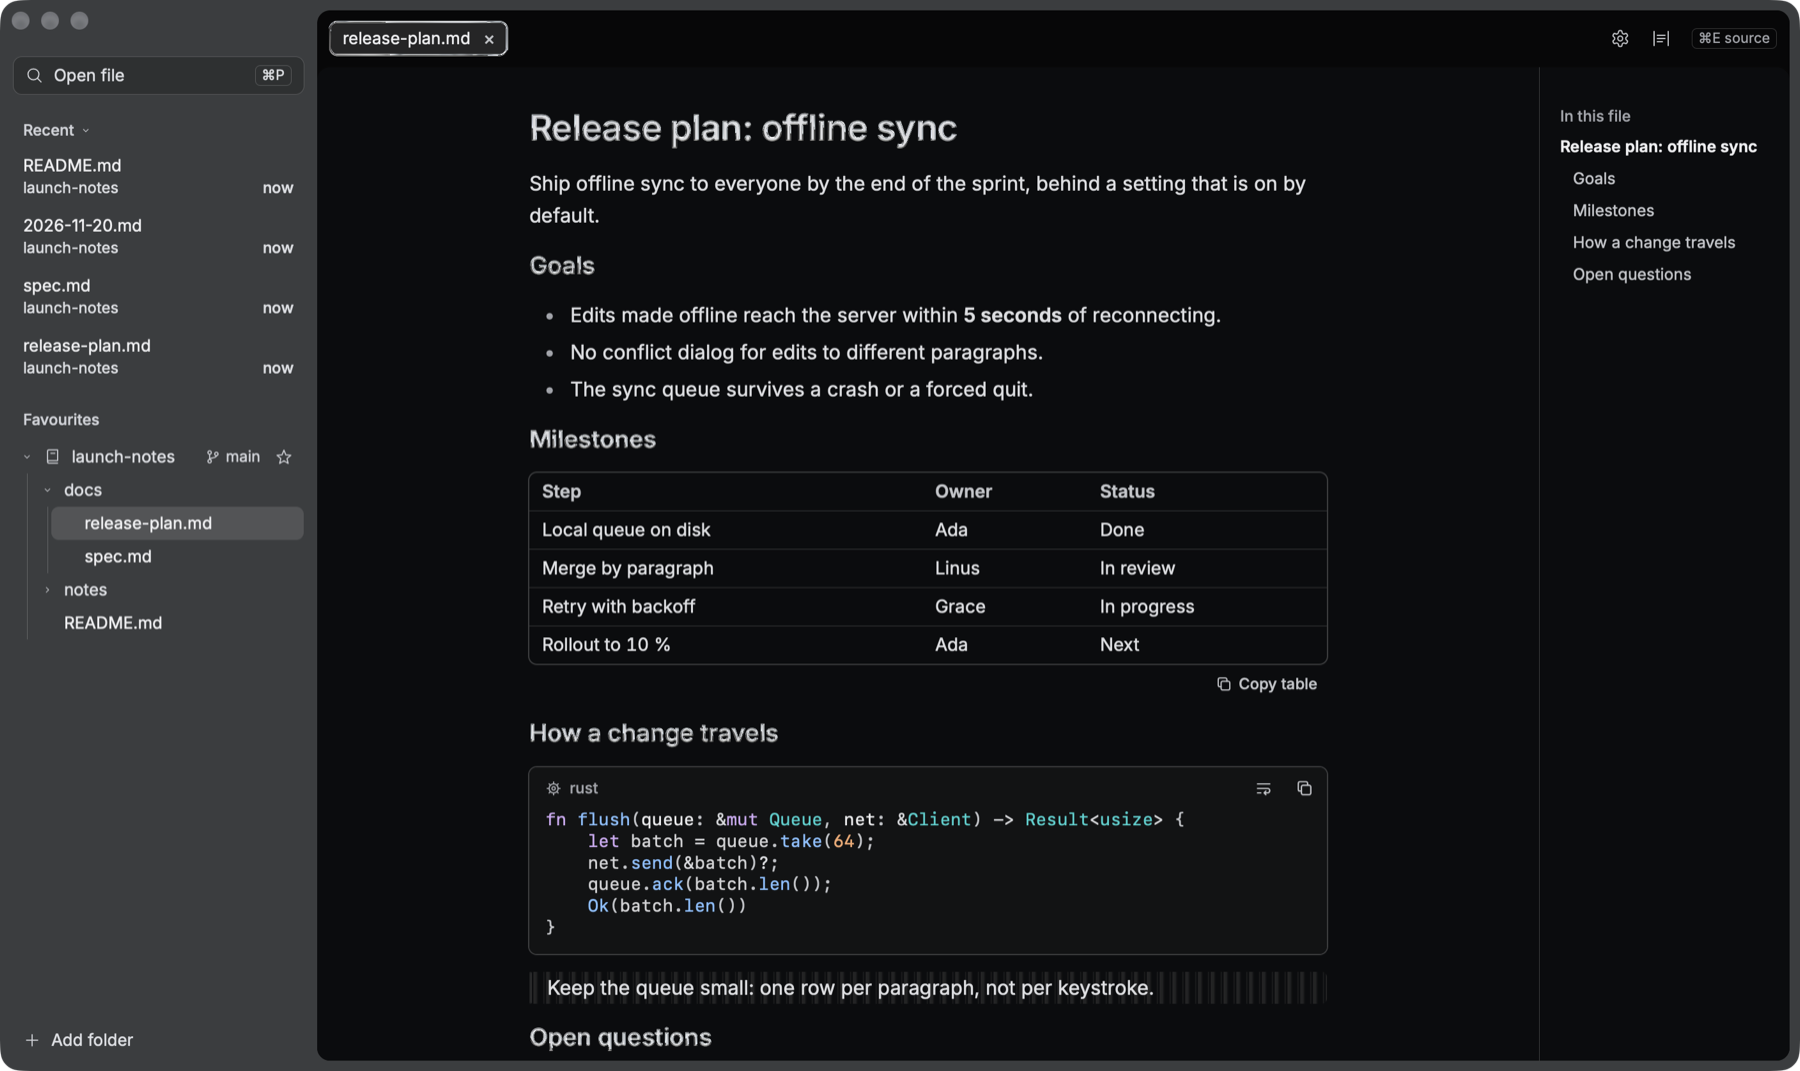
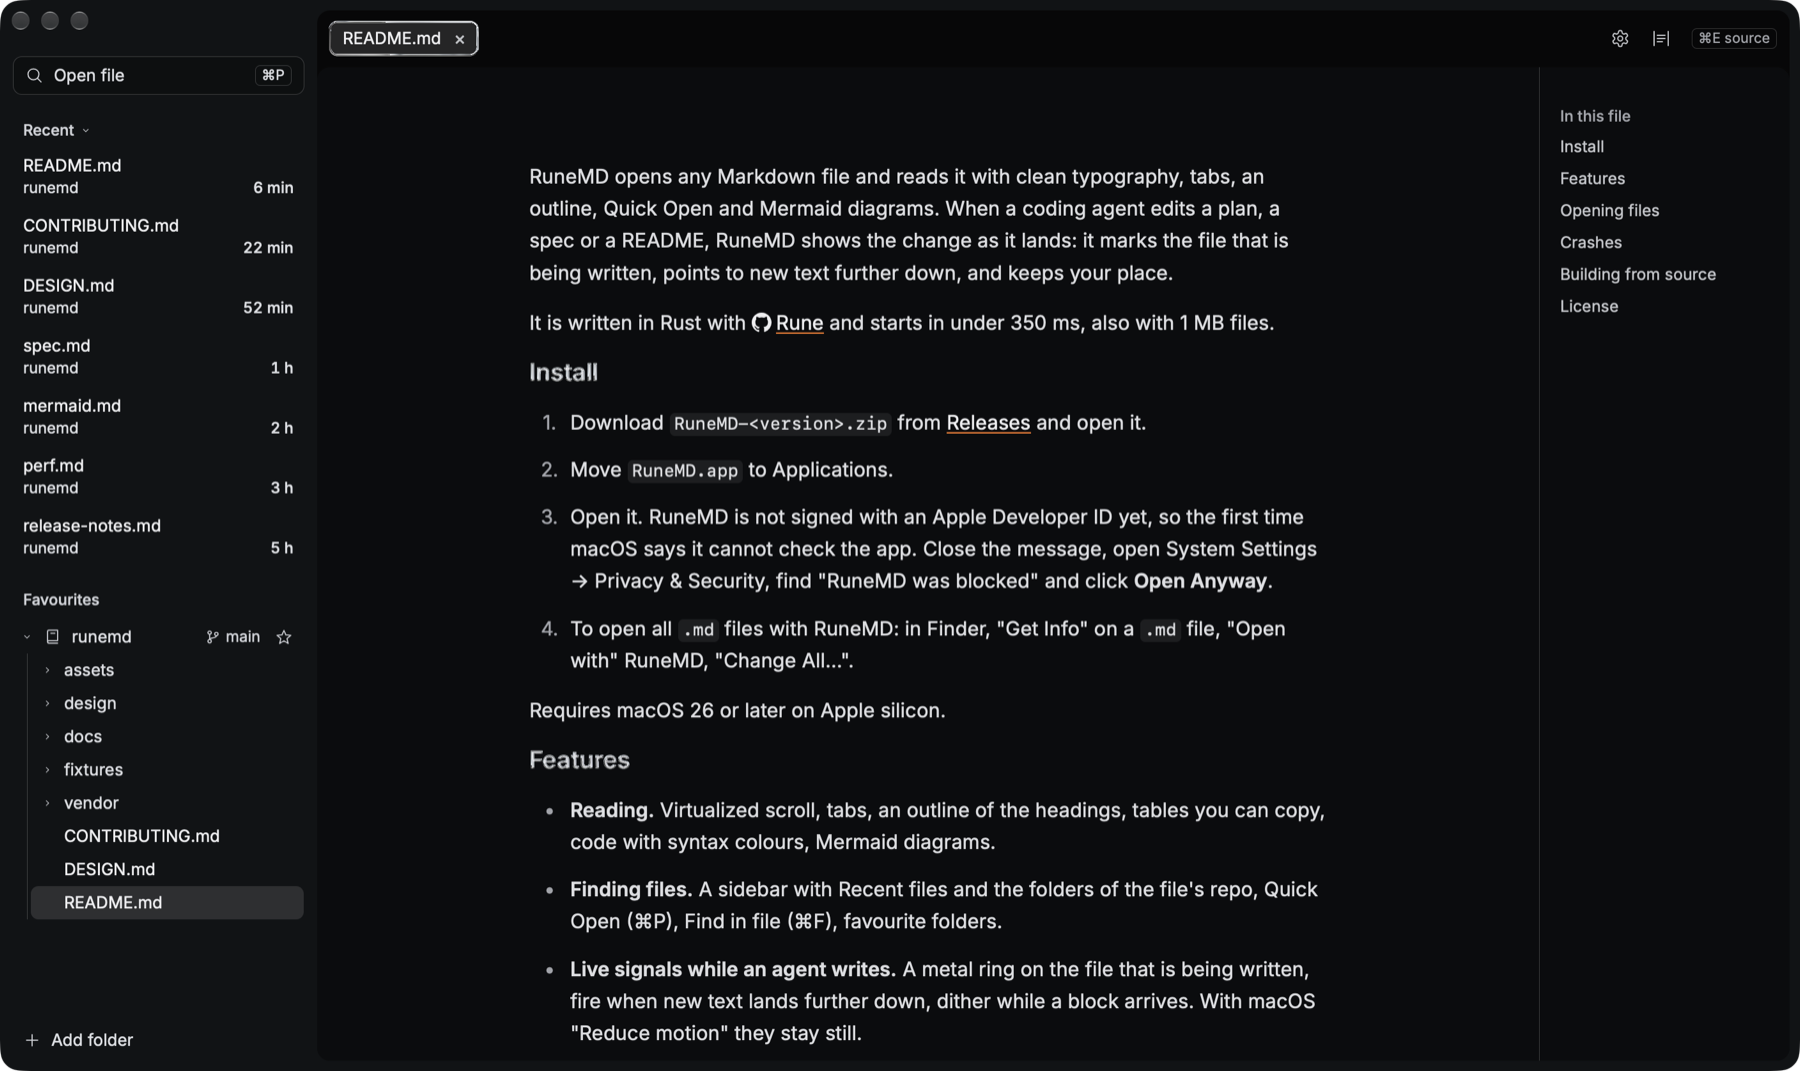
docs(readme): screenshots show RuneMD reading its own README

Changed region(s): [[0.0, 0.0, 1.0, 1.0], [0.6844, 0.8319, 0.7156, 0.8627]]

diff --git a/README.md b/README.md
@@ -2,7 +2,7 @@
 
 <p align="center">A native Markdown reader for macOS that shows what your agents write, live.</p>
 
-<p align="center"><img src="docs/images/screenshot-dark.png" alt="RuneMD in the dark theme: a sidebar with recent files and the repo folders, a release plan with a table and a Rust code block, and an outline on the right" width="900"></p>
+<p align="center"><img src="docs/images/screenshot-dark.png" alt="RuneMD in the dark theme reading its own README: a sidebar with recent files and the repo folders, and an outline on the right" width="900"></p>
 
 RuneMD opens any Markdown file and reads it with clean typography, tabs, an outline, Quick Open and
 Mermaid diagrams. When a coding agent edits a plan, a spec or a README, RuneMD shows the change as it
@@ -36,7 +36,7 @@ Requires macOS 26 or later on Apple silicon.
 - **Settings (⌘,).** Watched folders, font, size, light or dark theme, the bottom fire (Off, Brief or
   Always).
 
-<p align="center"><img src="docs/images/screenshot-light.png" alt="The same release plan in the light theme" width="900"></p>
+<p align="center"><img src="docs/images/screenshot-light.png" alt="The same README in the light theme" width="900"></p>
 
 ## Opening files
 
